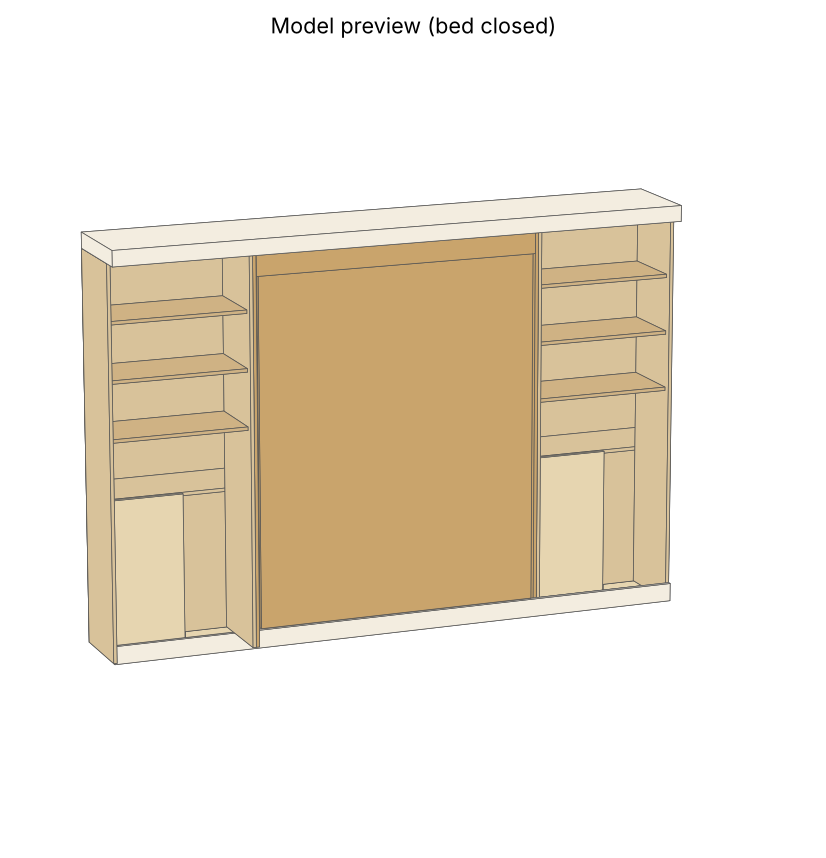
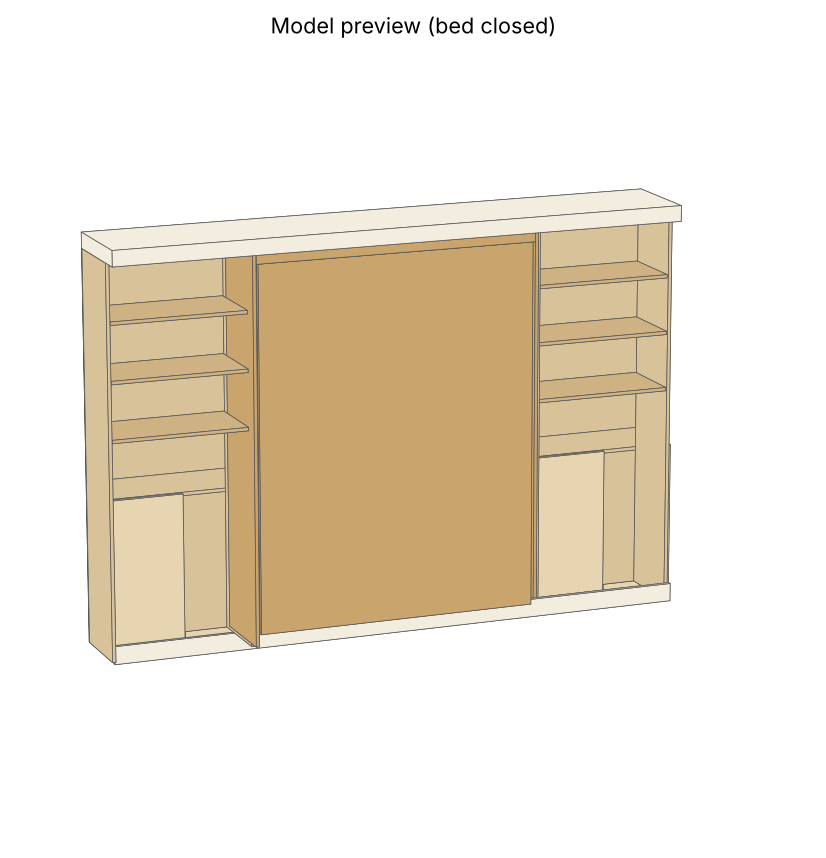
Add design test suite; make tower carcass depth consistent with flush doors
Claude-Session: https://claude.ai/code/session_01KugbWEtLNVU8bq7dW5xBvy

Changed region(s): [[0.1211, 0.303, 0.6356, 0.7879], [0.6356, 0.2424, 0.8172, 0.697], [0.5751, 0.2727, 0.6659, 0.3636]]

diff --git a/murphy-bed/test_design.py b/murphy-bed/test_design.py
@@ -1,0 +1,262 @@
+"""Design checks for the murphy bed + shelf towers.  Run:  python3 -m unittest -v murphy-bed/test_design.py
+
+These tests check that the design is internally consistent, matches the Create-A-Bed plans,
+fits the room (using the assumed dimensions in design.py), and that the cut list/sheet layouts
+are buildable with a 1/8" kerf. They do NOT prove structural soundness or replace a dry fit and
+the manufacturer's sign-off on the tower attachment.
+"""
+import math
+import os
+import sys
+import tempfile
+import unittest
+from collections import Counter
+
+sys.path.insert(0, os.path.dirname(os.path.abspath(__file__)))
+import design as d
+
+EPS = 1e-6
+
+
+def by_name(parts):
+    return {p.name: p for p in parts}
+
+
+class KitMatchesPlans(unittest.TestCase):
+    """Values copied from Create-A-Bed Queen Vertical plans, p.6 bill of materials."""
+    PLANS = {
+        'B Side rail': (2, 5.875, 81.5), 'C Foot rail': (1, 3, 62), 'D Head rail': (1, 5.875, 62),
+        'E Bed face panel': (2, 32, 81.75), 'F Headboard': (1, 15.875, 64.375),
+        'G Cabinet vertical': (2, 15.875, 87.125), 'H Header board': (1, 14.375, 64.375),
+        'H Header front rail': (1, 2.75, 64.375), 'H Header rear rail': (1, 2.75, 64.375),
+        'J Mattress support': (2, 31, 80), 'A Frame strut': (10, 1.5, 60.5), 'A Frame side': (2, 1.5, 80),
+        'H Mounting cleat': (2, 1.5, 14.375), 'I Leg support rail': (1, 0.75, 60.25),
+    }
+
+    def test_every_kit_part_matches_the_bom(self):
+        parts = by_name(d.bed_parts())
+        self.assertEqual(set(parts), set(self.PLANS))
+        for name, (qty, w, l) in self.PLANS.items():
+            p = parts[name]
+            self.assertEqual((p.qty, p.w, p.l), (qty, w, l), name)
+
+    def test_cabinet_envelope_matches_plans_p2(self):
+        self.assertEqual((d.BED_W, d.BED_H, d.BED_D, d.BED_OPEN_PROJ), (65.875, 87.125, 15.875, 87.0))
+
+    def test_kit_parts_are_dimensionally_consistent_with_each_other(self):
+        k = by_name(d.bed_parts())
+        T = d.T
+        # cabinet width = header length + two verticals; depth = header board + two 3/4" rails
+        self.assertAlmostEqual(k['H Header board'].l + 2 * T, d.BED_W)
+        self.assertAlmostEqual(k['H Header board'].w + 2 * T, d.BED_D)
+        self.assertAlmostEqual(k['F Headboard'].l, k['H Header board'].l)
+        self.assertAlmostEqual(k['G Cabinet vertical'].w, d.BED_D)
+        self.assertAlmostEqual(k['G Cabinet vertical'].l, d.BED_H)
+        # inner frame: struts + 2 frame sides = head/foot rail length; mattress deck = frame
+        frame_w = k['A Frame strut'].l + 2 * T
+        self.assertAlmostEqual(frame_w, k['D Head rail'].l)
+        self.assertAlmostEqual(k['C Foot rail'].l, k['D Head rail'].l)
+        self.assertAlmostEqual(2 * k['J Mattress support'].w, frame_w)
+        self.assertAlmostEqual(k['J Mattress support'].l, k['A Frame side'].l)
+        # side rails run the frame length plus head and foot rail thickness
+        self.assertAlmostEqual(k['B Side rail'].l, k['A Frame side'].l + 2 * T)
+        # face panels overhang the frame (+ side rails) by 1/4" per side (plans p.19-20)
+        self.assertAlmostEqual(2 * k['E Bed face panel'].w, frame_w + 2 * T + 0.5)
+        self.assertAlmostEqual(k['E Bed face panel'].l, k['B Side rail'].l + 0.25)
+
+    def test_panel_fits_between_verticals_with_working_gap(self):
+        k = by_name(d.bed_parts())
+        panel_w = 2 * k['E Bed face panel'].w
+        inner = d.BED_W - 2 * d.T
+        gap_each_side = (inner - panel_w) / 2
+        self.assertGreater(gap_each_side, 0.1)
+        self.assertLess(gap_each_side, 0.5)
+
+    def test_mattress_fits_the_deck(self):
+        k = by_name(d.bed_parts())
+        self.assertGreaterEqual(2 * k['J Mattress support'].w, 60)    # queen mattress 60"
+        self.assertGreaterEqual(k['J Mattress support'].l, 80)        # x 80"
+
+
+class FitsTheRoom(unittest.TestCase):
+    def test_widths_add_up_to_the_wall(self):
+        self.assertAlmostEqual(2 * d.TOWER_W + d.BED_W + 2 * d.SCRIBE, d.WALL_W)
+
+    def test_bed_is_centered(self):
+        left = d.SCRIBE + d.TOWER_W
+        right = d.WALL_W - (left + d.BED_W)
+        self.assertAlmostEqual(left, right)
+        self.assertAlmostEqual(left + d.BED_W / 2, d.WALL_W / 2)
+
+    def test_towers_are_wide_enough_to_be_useful(self):
+        self.assertGreater(d.TOWER_W, 18)
+        door_w = d.TOWER_W / 2 - 0.125
+        self.assertGreater(door_w, 10)
+        self.assertLess(door_w, 24)       # doors much wider than ~24" sag/rack
+
+    def test_crown_clears_existing_crown_even_with_floor_drop(self):
+        gap = d.CEIL_H - d.EXIST_CROWN_H - (d.BED_H + d.NEW_CROWN_H) - d.FLOOR_DROP
+        self.assertGreaterEqual(gap, 0.5, 'new crown would hit the existing crown')
+
+    def test_unit_height_leaves_room_to_tilt_into_place(self):
+        # a 87-1/8" cabinet stood up from the floor needs a diagonal clearance (depth x height)
+        diag = math.hypot(d.BED_D, d.BED_H)
+        self.assertLess(diag, d.CEIL_H - d.FLOOR_DROP)
+
+    def test_window_clearance(self):
+        self.assertGreaterEqual(d.WINDOW_FROM_WALL - d.TOWER_D, 6.0)   # casing + elbow room
+
+    def test_room_is_deep_enough_for_open_bed(self):     # ROOM_D is assumed until measured
+        self.assertGreaterEqual(d.ROOM_D, d.BED_OPEN_PROJ + 24)
+
+    def test_base_moulding_stock_covers_floor_drop(self):
+        self.assertGreaterEqual(d.BASE_H + d.FLOOR_DROP + 0.25, d.BASE_H + d.FLOOR_DROP)
+        rows = dict(d.trim_list())
+        self.assertIn(d.frac(d.BASE_H + d.FLOOR_DROP + 0.25), rows['Base moulding, front run'])
+
+    def test_base_moulding_is_proud_of_the_face_panel(self):
+        # face panel bottom sits ~2-5/8" above the floor (plans), below the 4" base, so the base
+        # must stand in front of the panel (plinth), not recessed with it. Confirm with the maker.
+        self.assertLess(d.FACE_PANEL_BOTTOM, d.BASE_H)
+        name, group, x, y, z, dx, dy, dz = [b for b in d.boxes() if b[0] == 'base molding'][0]
+        self.assertGreaterEqual(y, d.TOWER_D - EPS)         # starts at the front plane, i.e. in front of the panel
+        self.assertGreaterEqual(dy, 0.5)                    # and stands proud by at least 1/2"
+
+
+class AnchorsAndStructure(unittest.TestCase):
+    def test_enough_studs_behind_the_header_rail(self):
+        rail = by_name(d.bed_parts())['H Header rear rail'].l
+        self.assertGreaterEqual(math.floor(rail / d.STUD_OC), 4,
+                                'kit needs 4 wall anchors through the header rear rail (plans p.10)')
+
+    def test_adjustable_shelf_sag(self):
+        # simply supported, uniform book load; conservative birch-ply E along the face grain
+        shelf = [p for p in d.tower_parts() if 'adjustable' in p.name][0]
+        span, depth = shelf.l, shelf.w                  # grain runs along the span (see sheet packer)
+        E, I = 1.0e6, depth * d.T ** 3 / 12             # psi, in^4
+        load = 30.0 / 12                                # 30 lb per foot of shelf run
+        sag = 5 * load * span ** 4 / (384 * E * I)
+        self.assertLess(sag, span / 300, f'sag {sag:.3f}" too large')
+
+    def test_fixed_panels_span_the_same_as_shelves(self):
+        fixed = [p for p in d.tower_parts() if 'fixed divider' in p.name][0]
+        shelf = [p for p in d.tower_parts() if 'adjustable' in p.name][0]
+        self.assertAlmostEqual(fixed.l - 0.25, shelf.l)
+
+    def test_shelf_openings_hold_books(self):
+        gap = (d.BED_H - d.T - d.LOWER_H - 3 * d.T) / 4
+        self.assertGreaterEqual(gap, 9.5)
+        self.assertLessEqual(gap, 14.0)
+
+    def test_lower_cabinet_opening_vs_door_height(self):
+        opening = d.LOWER_H - d.T - (d.BASE_H + d.T)
+        door_h = [p for p in d.tower_parts() if 'door' in p.name][0].l
+        self.assertGreater(door_h, opening - 5)
+        self.assertLess(door_h, opening + 2 * d.T + 1)
+
+
+class ModelGeometry(unittest.TestCase):
+    def test_no_solids_overlap(self):
+        bx = d.boxes()
+        for i, (n1, _, x1, y1, z1, dx1, dy1, dz1) in enumerate(bx):
+            for n2, _, x2, y2, z2, dx2, dy2, dz2 in bx[i + 1:]:
+                ox = min(x1 + dx1, x2 + dx2) - max(x1, x2)
+                oy = min(y1 + dy1, y2 + dy2) - max(y1, y2)
+                oz = min(z1 + dz1, z2 + dz2) - max(z1, z2)
+                self.assertFalse(ox > EPS and oy > EPS and oz > EPS, f'{n1} overlaps {n2}')
+
+    def test_everything_is_inside_the_room(self):
+        for n, g, x, y, z, dx, dy, dz in d.boxes():
+            self.assertGreaterEqual(x, -EPS, n)
+            self.assertLessEqual(x + dx, d.WALL_W + EPS, n)
+            self.assertGreaterEqual(y, -EPS, n)
+            self.assertLessEqual(z + dz, d.CEIL_H - d.EXIST_CROWN_H, n)
+
+    def test_tower_tops_match_the_bed_cabinet_top(self):
+        tops = {n: round(z + dz, 4) for n, g, x, y, z, dx, dy, dz in d.boxes() if n.startswith(('tower side', 'tower back', 'bed vertical'))}
+        self.assertEqual(set(tops.values()), {d.BED_H}, tops)
+        top_panels = [round(z + dz, 4) for n, g, x, y, z, dx, dy, dz in d.boxes() if n.startswith('tower fixed')]
+        self.assertEqual(max(top_panels), d.BED_H)
+
+    def test_fronts_are_flush(self):
+        fronts = {}
+        for n, g, x, y, z, dx, dy, dz in d.boxes():
+            if n.startswith(('bed vertical', 'door')):
+                fronts[n] = round(y + dy, 4)
+        self.assertEqual(set(fronts.values()), {d.BED_D})
+
+    def test_cut_list_matches_model(self):
+        want = Counter()
+        for p in d.tower_parts():
+            if p.mat == 'solid' or 'Scribe' in p.name:
+                continue
+            t = {'3/4 ply': 0.75, '1/4 ply': 0.25}[p.mat]
+            want.update({tuple(sorted(round(v, 4) for v in (t, p.w, p.l))): p.qty})
+        have = Counter()
+        for n, g, x, y, z, dx, dy, dz in d.boxes():
+            if n.startswith(('tower side', 'tower fixed', 'tower shelf', 'tower back', 'door')):
+                have[tuple(sorted(round(v, 4) for v in (dx, dy, dz)))] += 1
+        self.assertEqual(have, want)
+
+    def test_scad_has_one_cube_per_box(self):
+        with tempfile.TemporaryDirectory() as t:
+            path = os.path.join(t, 'm.scad')
+            d.write_scad(path)
+            with open(path) as f:
+                txt = f.read()
+        self.assertEqual(txt.count('cube(['), len(d.boxes()) + 1)    # + room reference wall
+
+
+class SheetLayouts(unittest.TestCase):
+    def setUp(self):
+        sheet_parts = [p for p in d.bed_parts() + d.tower_parts() if p.mat != 'solid']
+        self.items34 = d.expand([p for p in sheet_parts if p.mat == '3/4 ply'])
+        self.items14 = d.expand([p for p in sheet_parts if p.mat == '1/4 ply'])
+
+    def test_kerf_is_at_least_an_eighth_inch(self):
+        self.assertGreaterEqual(d.KERF, 0.125)
+
+    def test_every_part_is_placed_exactly_once_and_cuts_are_buildable(self):
+        for items in (self.items34, self.items14):
+            sheets = d.pack(items)
+            placed = Counter((round(w, 4), round(h, 4)) for s in sheets for _, _, _, w, h in s['placed'])
+            self.assertEqual(placed, Counter((round(w, 4), round(h, 4)) for _, w, h in items))
+            d.check_layout(sheets)      # inside trimmed sheet; every gap >= kerf
+
+    def test_no_part_needs_rotating_across_the_grain(self):
+        for _, w, l in self.items34 + self.items14:
+            self.assertLessEqual(w, d.SHEET_W - d.EDGE_TRIM)
+            self.assertLessEqual(l, d.SHEET_L - d.EDGE_TRIM)
+
+    def test_kit_cutting_guide_has_no_room_for_kerf_and_trim(self):
+        # why we re-laid out the bed parts: 15-7/8" + 32" + kerf + edge trim > 48"
+        self.assertGreater(15.875 + 32 + d.KERF + d.EDGE_TRIM, d.SHEET_W)
+
+    def test_sheet_area_is_sufficient(self):
+        for items in (self.items34, self.items14):
+            need = sum(w * h for _, w, h in items)
+            have = len(d.pack(items)) * d.SHEET_W * d.SHEET_L
+            self.assertLessEqual(need, have)
+            self.assertGreater(need / have, 0.40, 'suspiciously wasteful layout')
+
+
+class ReportsAndDrawings(unittest.TestCase):
+    def test_reports_and_drawings_generate(self):
+        with tempfile.TemporaryDirectory() as t:
+            s34, s14 = d.write_reports(t)
+            d.write_scad(os.path.join(t, 'model.scad'))
+            d.draw_all(t, s34, s14)
+            for f in ('cutlist.md', 'cutlist.csv', 'model.scad', 'front_elevation.png', 'plan.png',
+                      'side_section.png', 'iso.png', 'sheets_3-4.png', 'sheets_1-4.png'):
+                self.assertGreater(os.path.getsize(os.path.join(t, f)), 500, f)
+            with open(os.path.join(t, 'cutlist.md')) as f:
+                md = f.read()
+            n_shelves = sum(p.qty for p in d.tower_parts() if 'adjustable' in p.name)
+            n_doors = sum(p.qty for p in d.tower_parts() if 'door' in p.name)
+            self.assertIn(f'5 mm shelf pins: {4 * n_shelves}', md)
+            self.assertIn(f'hinges, full overlay: {2 * n_doors}', md)
+            self.assertIn(f'{len(s34)} sheets 3/4" ply', md)
+
+
+if __name__ == '__main__':
+    unittest.main(verbosity=2)

diff --git a/murphy-bed/design.py b/murphy-bed/design.py
@@ -40,6 +40,13 @@ T = 0.75                # plywood thickness
 BACK_T = 0.25
 TOWER_D = BED_D
 TOWER_W = (WALL_W - BED_W - 2 * SCRIBE) / 2      # bed centered => both equal
+CARCASS_D = TOWER_D - T                          # overlay doors add T, so door faces sit flush with the bed cabinet front
+SIDE_D = CARCASS_D - BACK_T                      # sides/fixed panels sit in front of the applied 1/4" back
+SHELF_D = SIDE_D - 0.25
+STUD_OC = 16.0          # wall stud spacing (ASSUMED; the kit needs 4 anchor points in the header rail)
+FACE_PANEL_H = 81.75    # plans p.6 part E
+HEADER_FRONT_RAIL = 2.75  # plans p.6 part H front rail covers the top of the opening
+FACE_PANEL_BOTTOM = BED_H - HEADER_FRONT_RAIL - FACE_PANEL_H   # ~2-5/8" above the floor
 LOWER_H = 36.0          # top of lower (doored) section
 KERF = 0.125            # user's saw blade is at least 1/8"; every cut in the layouts costs this much
 EDGE_TRIM = 0.125       # factory edge trimmed off one long edge and one end of every sheet
@@ -92,7 +99,7 @@ def bed_parts():
 def tower_parts():
     n = 2                                   # two identical towers (bed centered)
     inner = TOWER_W - 2 * T
-    side_d = TOWER_D - BACK_T               # back panel applied over rear edges
+    side_d = SIDE_D                         # back panel applied over rear edges; doors flush to bed front
     door_w = TOWER_W / 2 - 0.125
     door_h = LOWER_H - BASE_H - 0.125
     return [
@@ -100,7 +107,7 @@ def tower_parts():
         Part('Tower top', 'tower', '3/4 ply', n, side_d, inner),
         Part('Tower bottom (at base-molding height)', 'tower', '3/4 ply', n, side_d, inner),
         Part('Tower fixed divider (lower/upper)', 'tower', '3/4 ply', n, side_d, inner),
-        Part('Tower adjustable shelf', 'tower', '3/4 ply', 3 * n, side_d - 0.625, inner - 0.25,
+        Part('Tower adjustable shelf', 'tower', '3/4 ply', 3 * n, SHELF_D, inner - 0.25,
              'band front edge; 5 mm shelf-pin holes'),
         Part('Tower door (full overlay)', 'tower', '3/4 ply', 2 * n, door_w, door_h),
         Part('Tower back', 'tower', '1/4 ply', n, TOWER_W, BED_H),
@@ -200,20 +207,20 @@ def boxes():
     # bed cabinet
     b.append(('bed vertical L', 'bed', x_bed, 0, 0, T, BED_D, BED_H))
     b.append(('bed vertical R', 'bed', x_right - T, 0, 0, T, BED_D, BED_H))
-    b.append(('bed header', 'bed', x_bed + T, 0, BED_H - 5.375, BED_W - 2 * T, BED_D, 5.375))
-    b.append(('bed face (closed)', 'bed', x_bed + T + 0.5, BED_D - 0.75 - 0.125, 4.0, BED_W - 2 * T - 1.0, 0.75, 81.75))
-    b.append(('bed frame (closed)', 'bedin', x_bed + T + 0.75, BED_D - 0.875 - 6.0, 4.0, BED_W - 2 * T - 1.5, 6.0, 81.0))
+    b.append(('bed header', 'bed', x_bed + T, 0, BED_H - HEADER_FRONT_RAIL, BED_W - 2 * T, BED_D, HEADER_FRONT_RAIL))
+    b.append(('bed face (closed)', 'bed', x_bed + T + 0.5, BED_D - 0.75 - 0.125, FACE_PANEL_BOTTOM, BED_W - 2 * T - 1.0, 0.75, FACE_PANEL_H))
+    b.append(('bed frame (closed)', 'bedin', x_bed + T + 0.75, BED_D - 0.875 - 6.0, FACE_PANEL_BOTTOM, BED_W - 2 * T - 1.5, 6.0, FACE_PANEL_H - 0.75))
     for nm, x0 in (('L', x_left), ('R', x_right)):
-        b.append((f'tower side out {nm}', 'tower', x0, 0, 0, T, TOWER_D, BED_H))
-        b.append((f'tower side in {nm}', 'tower', x0 + tw - T, 0, 0, T, TOWER_D, BED_H))
+        b.append((f'tower side out {nm}', 'tower', x0, BACK_T, 0, T, SIDE_D, BED_H))
+        b.append((f'tower side in {nm}', 'tower', x0 + tw - T, BACK_T, 0, T, SIDE_D, BED_H))
         b.append((f'tower back {nm}', 'tower', x0, 0, 0, tw, BACK_T, BED_H))
         for z in (BASE_H, LOWER_H - T, BED_H - T):
-            b.append((f'tower fixed {nm} z{z}', 'tower', x0 + T, BACK_T, z, tw - 2 * T, TOWER_D - BACK_T - 0.75, T))
+            b.append((f'tower fixed {nm} z{z}', 'tower', x0 + T, BACK_T, z, tw - 2 * T, SIDE_D, T))
         up_lo, up_hi = LOWER_H, BED_H - T
         gap = (up_hi - up_lo - 3 * T) / 4
         for k in range(1, 4):
             z = up_lo + k * gap + (k - 1) * T
-            b.append((f'tower shelf {nm} {k}', 'shelf', x0 + T + 0.125, BACK_T, z, tw - 2 * T - 0.25, TOWER_D - BACK_T - 0.75 - 0.625, T))
+            b.append((f'tower shelf {nm} {k}', 'shelf', x0 + T + 0.125, BACK_T, z, tw - 2 * T - 0.25, SHELF_D, T))
         dw = tw / 2 - 0.125
         for j in range(2):
             b.append((f'door {nm}{j}', 'door', x0 + 0.0625 + j * (dw + 0.125), TOWER_D - T, BASE_H, dw, T, LOWER_H - BASE_H - 0.125))

diff --git a/murphy-bed/out/cutlist.md b/murphy-bed/out/cutlist.md
@@ -25,11 +25,11 @@ Centered layout on an 11 ft wall: towers 32-5/16" wide each, bed cabinet 65-7/8"
 
 | Part | Material | Qty | Width | Length | Notes |
 |---|---|---|---|---|---|
-| Tower side | 3/4 ply | 4 | 15-5/8" | 87-1/8" | notch rear bottom for baseboard |
-| Tower top | 3/4 ply | 2 | 15-5/8" | 30-13/16" |  |
-| Tower bottom (at base-molding height) | 3/4 ply | 2 | 15-5/8" | 30-13/16" |  |
-| Tower fixed divider (lower/upper) | 3/4 ply | 2 | 15-5/8" | 30-13/16" |  |
-| Tower adjustable shelf | 3/4 ply | 6 | 15" | 30-9/16" | band front edge; 5 mm shelf-pin holes |
+| Tower side | 3/4 ply | 4 | 14-7/8" | 87-1/8" | notch rear bottom for baseboard |
+| Tower top | 3/4 ply | 2 | 14-7/8" | 30-13/16" |  |
+| Tower bottom (at base-molding height) | 3/4 ply | 2 | 14-7/8" | 30-13/16" |  |
+| Tower fixed divider (lower/upper) | 3/4 ply | 2 | 14-7/8" | 30-13/16" |  |
+| Tower adjustable shelf | 3/4 ply | 6 | 14-5/8" | 30-9/16" | band front edge; 5 mm shelf-pin holes |
 | Tower door (full overlay) | 3/4 ply | 4 | 16" | 31-7/8" |  |
 | Tower back | 1/4 ply | 2 | 32-5/16" | 87-1/8" |  |
 | Scribe strip (rip to fit walls) | 3/4 ply | 2 | 3" | 87-1/8" | face-attached to outer tower sides |
@@ -40,13 +40,13 @@ All sheet parts (bed cabinet and towers) are packed together with a 1/8" kerf be
 
 **3/4" plywood: 7 sheet(s)**
 
-- Sheet 1: G Cabinet vertical 15-7/8"x87-1/8"; G Cabinet vertical 15-7/8"x87-1/8"; Tower side 15-5/8"x87-1/8"
-- Sheet 2: Tower side 15-5/8"x87-1/8"; Tower side 15-5/8"x87-1/8"; Tower side 15-5/8"x87-1/8"
-- Sheet 3: Scribe strip (rip to fit walls) 3"x87-1/8"; Scribe strip (rip to fit walls) 3"x87-1/8"; E Bed face panel 32"x81-3/4"; B Side rail 5-7/8"x81-1/2"; H Header front rail 2-3/4"x64-3/8"
-- Sheet 4: E Bed face panel 32"x81-3/4"; B Side rail 5-7/8"x81-1/2"; H Header rear rail 2-3/4"x64-3/8"; D Head rail 5-7/8"x62"
-- Sheet 5: F Headboard 15-7/8"x64-3/8"; H Header board 14-3/8"x64-3/8"; C Foot rail 3"x62"; Tower top 15-5/8"x30-13/16"; Tower top 15-5/8"x30-13/16"; Tower bottom (at base-molding height) 15-5/8"x30-13/16"
-- Sheet 6: Tower door (full overlay) 16"x31-7/8"; Tower door (full overlay) 16"x31-7/8"; Tower door (full overlay) 16"x31-7/8"; Tower door (full overlay) 16"x31-7/8"; Tower bottom (at base-molding height) 15-5/8"x30-13/16"; Tower fixed divider (lower/upper) 15-5/8"x30-13/16"; Tower fixed divider (lower/upper) 15-5/8"x30-13/16"; Tower adjustable shelf 15"x30-9/16"; Tower adjustable shelf 15"x30-9/16"
-- Sheet 7: Tower adjustable shelf 15"x30-9/16"; Tower adjustable shelf 15"x30-9/16"; Tower adjustable shelf 15"x30-9/16"; Tower adjustable shelf 15"x30-9/16"
+- Sheet 1: G Cabinet vertical 15-7/8"x87-1/8"; G Cabinet vertical 15-7/8"x87-1/8"; Tower side 14-7/8"x87-1/8"
+- Sheet 2: Tower side 14-7/8"x87-1/8"; Tower side 14-7/8"x87-1/8"; Tower side 14-7/8"x87-1/8"; H Header front rail 2-3/4"x64-3/8"
+- Sheet 3: Scribe strip (rip to fit walls) 3"x87-1/8"; Scribe strip (rip to fit walls) 3"x87-1/8"; E Bed face panel 32"x81-3/4"; B Side rail 5-7/8"x81-1/2"; H Header rear rail 2-3/4"x64-3/8"
+- Sheet 4: E Bed face panel 32"x81-3/4"; B Side rail 5-7/8"x81-1/2"; D Head rail 5-7/8"x62"; C Foot rail 3"x62"
+- Sheet 5: F Headboard 15-7/8"x64-3/8"; H Header board 14-3/8"x64-3/8"; Tower door (full overlay) 16"x31-7/8"; Tower door (full overlay) 16"x31-7/8"; Tower top 14-7/8"x30-13/16"; Tower top 14-7/8"x30-13/16"; Tower bottom (at base-molding height) 14-7/8"x30-13/16"
+- Sheet 6: Tower door (full overlay) 16"x31-7/8"; Tower door (full overlay) 16"x31-7/8"; Tower bottom (at base-molding height) 14-7/8"x30-13/16"; Tower fixed divider (lower/upper) 14-7/8"x30-13/16"; Tower fixed divider (lower/upper) 14-7/8"x30-13/16"; Tower adjustable shelf 14-5/8"x30-9/16"; Tower adjustable shelf 14-5/8"x30-9/16"; Tower adjustable shelf 14-5/8"x30-9/16"; Tower adjustable shelf 14-5/8"x30-9/16"
+- Sheet 7: Tower adjustable shelf 14-5/8"x30-9/16"; Tower adjustable shelf 14-5/8"x30-9/16"
 
 **1/4" plywood: 4 sheet(s)**
 

diff --git a/murphy-bed/README.md b/murphy-bed/README.md
@@ -11,3 +11,13 @@ Outputs in `out/`: `cutlist.md` / `cutlist.csv`, `model.scad` (open in free Open
 The bed cabinet parts come straight from the kit plans (pp. 2, 5, 6) and must not be altered.
 Values marked ASSUMED in `design.py` (ceiling, crown, base moulding, window width, room depth)
 need to be measured before cutting.
+
+## Checking the design
+
+    python3 -m unittest -v murphy-bed/test_design.py
+
+31 checks: kit parts match the plans' bill of materials and each other, everything fits the room
+(widths, centering, ceiling/crown gap with floor drop, window clearance, open-bed depth), no solids
+overlap, the cut list matches the 3D model, shelf sag, wall-anchor count, and every sheet layout keeps
+a 1/8" kerf and edge trim. These show the design is internally consistent; they do not replace a
+dry fit or the manufacturer's sign-off on how the towers attach.
